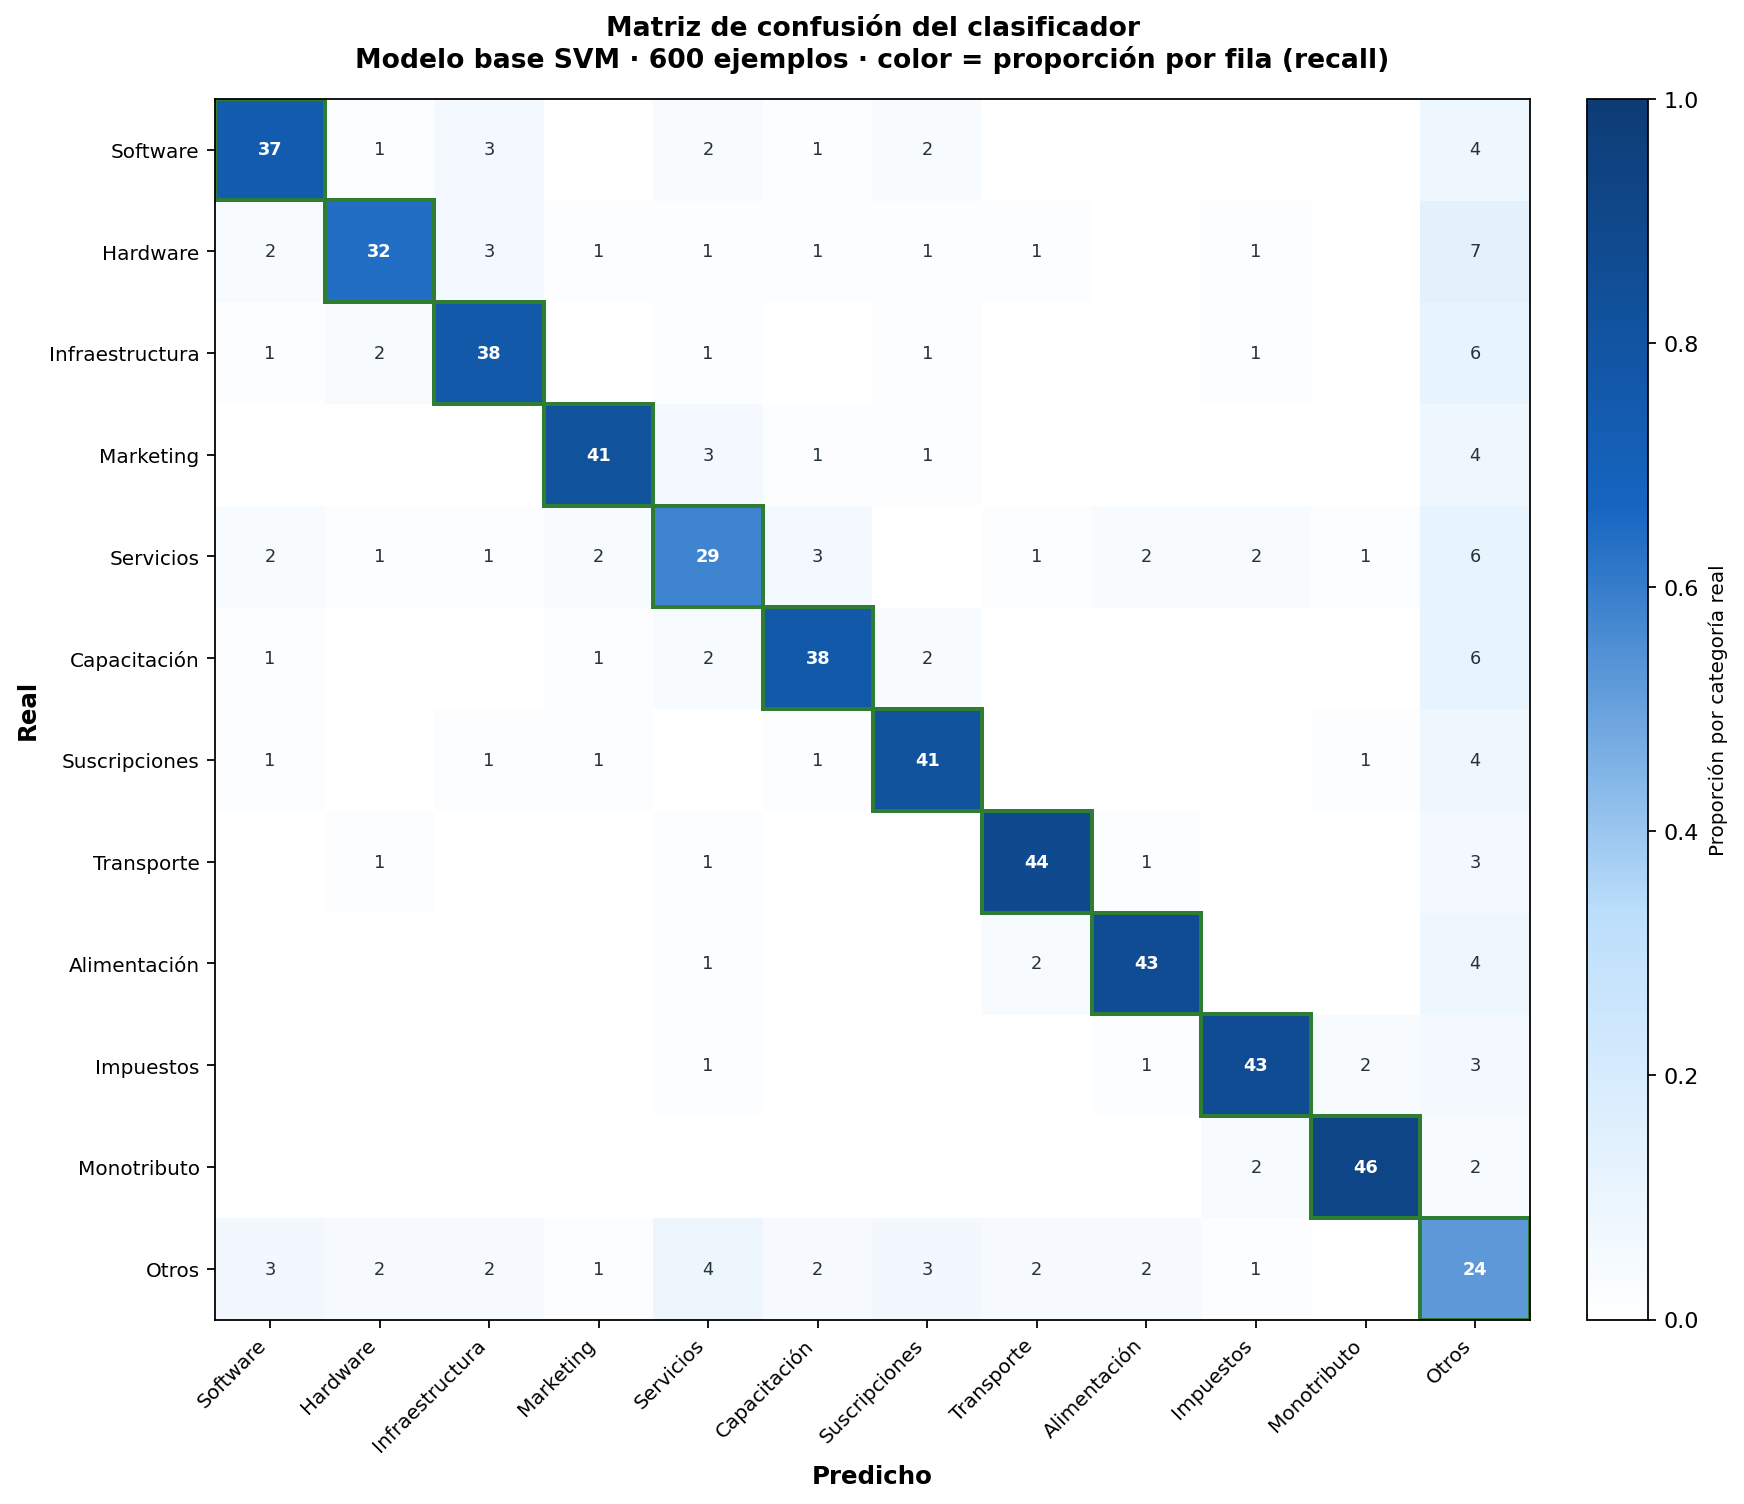
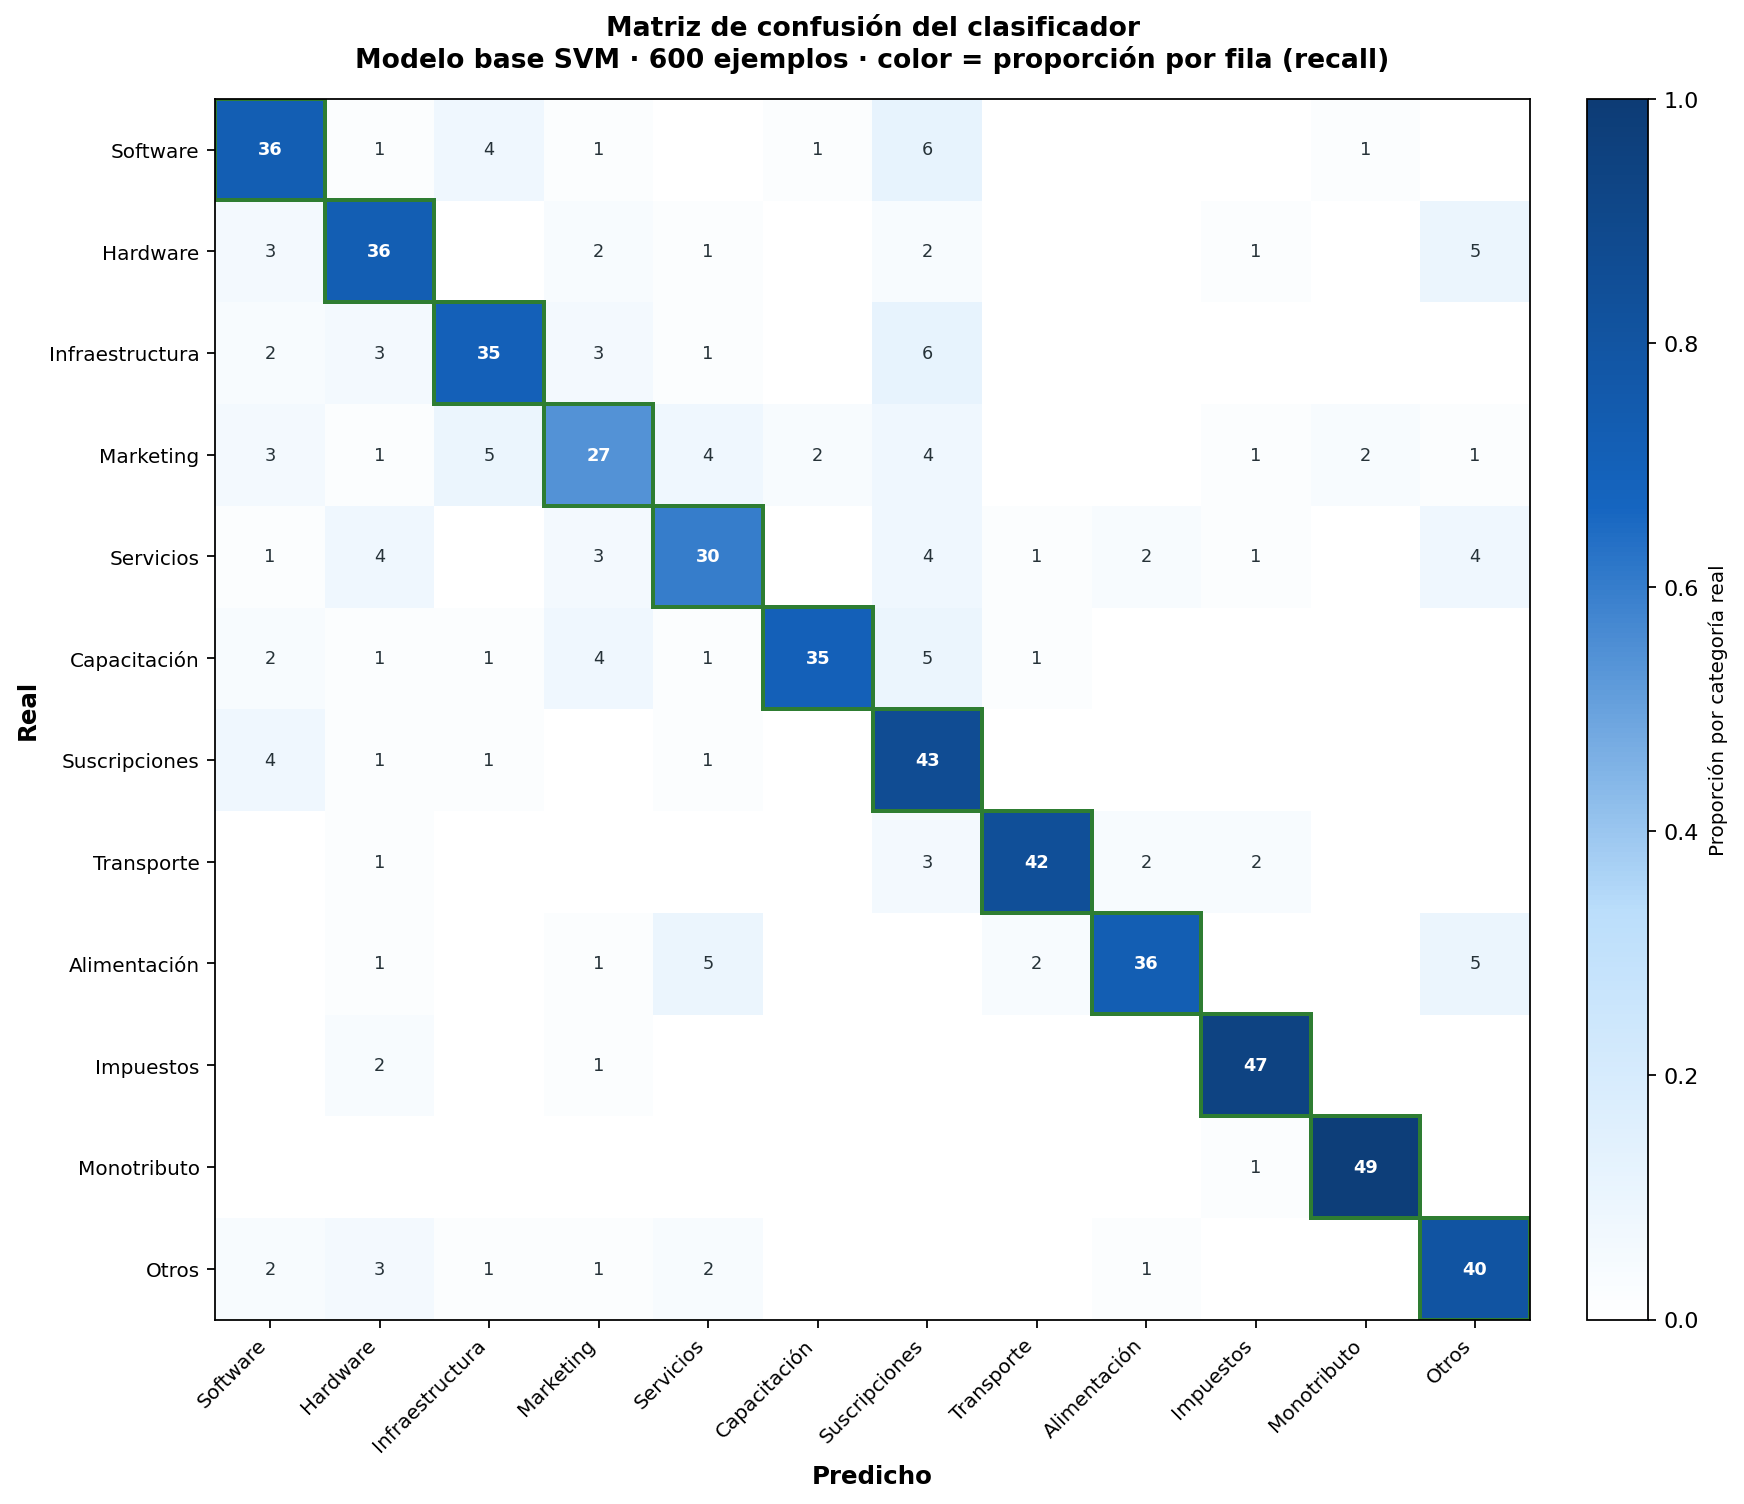
fix(S3.2+S3.4): corrige métricas por categoría con los datos REALES de la corrida
Los gráficos y el análisis del informe usaban cifras inventadas que no coincidían
con la salida real de evaluar_modelo.py. Corregido contra metricas_clasificador.txt:

- Peor categoría real: Marketing (F1 0.581), no "Otros"
- "Otros" real: F1 0.762 (buena, el modelo no la usa de vertedero)
- Mejor: Monotributo (F1 0.961), Impuestos (0.913), Transporte (0.875)
- Matriz de confusión: validada (600 ejemplos, accuracy 0.7600, recall por
  categoría coincide al milésimo con el txt)
- Hallazgo real documentado: confusión sistemática hacia Suscripciones desde
  categorías tecnológicas (vocabulario compartido por el modelo SaaS)

Changed region(s): [[0.6193, 0.5938, 0.7122, 0.6875], [0.805, 0.8125, 0.8979, 0.875], [0.3096, 0.25, 0.3716, 0.3438]]

diff --git a/docs/gen_graficos_metricas.py b/docs/gen_graficos_metricas.py
@@ -20,39 +20,41 @@ ACCURACY = 0.76
 N_EJEMPLOS = 600
 
 # (categoria, precision, recall, f1)  — ordenadas peor→mejor f1
+# Datos REALES de la corrida de evaluar_modelo.py (ver metricas_clasificador.txt).
 METRICAS = [
-    ("Otros",           0.500, 0.480, 0.489),
-    ("Servicios",       0.604, 0.580, 0.592),
-    ("Hardware",        0.681, 0.640, 0.660),
-    ("Infraestructura", 0.760, 0.760, 0.760),
-    ("Capacitación",    0.745, 0.760, 0.752),
-    ("Software",        0.787, 0.740, 0.763),
-    ("Marketing",       0.820, 0.820, 0.820),
-    ("Suscripciones",   0.787, 0.820, 0.803),
-    ("Transporte",      0.880, 0.880, 0.880),
-    ("Alimentación",    0.843, 0.860, 0.851),
-    ("Impuestos",       0.860, 0.860, 0.860),
-    ("Monotributo",     0.860, 0.920, 0.889),
+    ("Marketing",       0.628, 0.540, 0.581),
+    ("Servicios",       0.667, 0.600, 0.632),
+    ("Hardware",        0.667, 0.720, 0.692),
+    ("Software",        0.679, 0.720, 0.699),
+    ("Suscripciones",   0.589, 0.860, 0.699),
+    ("Infraestructura", 0.745, 0.700, 0.722),
+    ("Otros",           0.727, 0.800, 0.762),
+    ("Alimentación",    0.878, 0.720, 0.791),
+    ("Capacitación",    0.921, 0.700, 0.795),
+    ("Transporte",      0.913, 0.840, 0.875),
+    ("Impuestos",       0.887, 0.940, 0.913),
+    ("Monotributo",     0.942, 0.980, 0.961),
 ]
 
 LABELS = ["Software", "Hardware", "Infraestructura", "Marketing", "Servicios",
           "Capacitación", "Suscripciones", "Transporte", "Alimentación",
           "Impuestos", "Monotributo", "Otros"]
 
-# Matriz de confusión real (filas=real, columnas=predicho), mismo orden que LABELS
+# Matriz de confusión real (filas=real, columnas=predicho), mismo orden que LABELS.
+# Copiada exactamente de metricas_clasificador.txt.
 MATRIZ = [
-    [37, 1, 3, 0, 2, 1, 2, 0, 0, 0, 0, 4],
-    [2, 32, 3, 1, 1, 1, 1, 1, 0, 1, 0, 7],
-    [1, 2, 38, 0, 1, 0, 1, 0, 0, 1, 0, 6],
-    [0, 0, 0, 41, 3, 1, 1, 0, 0, 0, 0, 4],
-    [2, 1, 1, 2, 29, 3, 0, 1, 2, 2, 1, 6],
-    [1, 0, 0, 1, 2, 38, 2, 0, 0, 0, 0, 6],
-    [1, 0, 1, 1, 0, 1, 41, 0, 0, 0, 1, 4],
-    [0, 1, 0, 0, 1, 0, 0, 44, 1, 0, 0, 3],
-    [0, 0, 0, 0, 1, 0, 0, 2, 43, 0, 0, 4],
-    [0, 0, 0, 0, 1, 0, 0, 0, 1, 43, 2, 3],
-    [0, 0, 0, 0, 0, 0, 0, 0, 0, 2, 46, 2],
-    [3, 2, 2, 1, 4, 2, 3, 2, 2, 1, 0, 24],
+    [36, 1, 4, 1, 0, 1, 6, 0, 0, 0, 1, 0],
+    [3, 36, 0, 2, 1, 0, 2, 0, 0, 1, 0, 5],
+    [2, 3, 35, 3, 1, 0, 6, 0, 0, 0, 0, 0],
+    [3, 1, 5, 27, 4, 2, 4, 0, 0, 1, 2, 1],
+    [1, 4, 0, 3, 30, 0, 4, 1, 2, 1, 0, 4],
+    [2, 1, 1, 4, 1, 35, 5, 1, 0, 0, 0, 0],
+    [4, 1, 1, 0, 1, 0, 43, 0, 0, 0, 0, 0],
+    [0, 1, 0, 0, 0, 0, 3, 42, 2, 2, 0, 0],
+    [0, 1, 0, 1, 5, 0, 0, 2, 36, 0, 0, 5],
+    [0, 2, 0, 1, 0, 0, 0, 0, 0, 47, 0, 0],
+    [0, 0, 0, 0, 0, 0, 0, 0, 0, 1, 49, 0],
+    [2, 3, 1, 1, 2, 0, 0, 0, 1, 0, 0, 40],
 ]
 
 

diff --git a/docs/informe_capitulos.md b/docs/informe_capitulos.md
@@ -189,15 +189,21 @@ clasificación de texto corto en español con vocabulario heterogéneo y que el
 umbral de confianza deriva los casos dudosos a revisión manual.
 
 El análisis por categoría revela un desempeño dispar pero coherente con la
-naturaleza del problema. Las categorías con vocabulario distintivo obtuvieron los
-mejores resultados: Monotributo (F1 = 0,889), Transporte (F1 = 0,880) e Impuestos
-(F1 = 0,860). En el extremo opuesto, la categoría "Otros" (F1 = 0,489) y
-"Servicios" (F1 = 0,592) presentaron el desempeño más bajo, un comportamiento
-esperable dado que ambas funcionan como categorías semánticamente amplias que se
-solapan con varias otras. La matriz de confusión confirma este diagnóstico: las
-confusiones se concentran en la columna "Otros", lo que indica que el modelo, ante
-la duda, tiende a la categoría genérica antes que a una incorrecta específica
-—precisamente el comportamiento conservador que el diseño busca.
+naturaleza del problema. Las categorías con vocabulario distintivo y acotado
+obtuvieron los mejores resultados: Monotributo (F1 = 0,961), Impuestos
+(F1 = 0,913) y Transporte (F1 = 0,875). En el extremo opuesto, Marketing
+(F1 = 0,581) y Servicios (F1 = 0,632) presentaron el desempeño más bajo, un
+comportamiento esperable dado que son categorías semánticamente amplias cuyo
+vocabulario se solapa con el de otras: un gasto de Marketing puede mencionar
+software o servicios, y "Servicios" abarca honorarios de naturaleza muy diversa.
+La matriz de confusión confirma este diagnóstico. Se observa además una confusión
+sistemática hacia la categoría Suscripciones —varias categorías tecnológicas
+(Software, Infraestructura, Capacitación) derivan parte de sus casos hacia ella—,
+atribuible a que muchos servicios profesionales se contratan hoy bajo modalidad
+de suscripción, lo que vuelve el vocabulario parcialmente compartido. Cabe destacar
+que la categoría "Otros" alcanzó un F1 de 0,762, lo que indica que el modelo
+distingue correctamente los gastos genuinamente inclasificables en lugar de usar
+"Otros" como vertedero de la incertidumbre.
 
 Las métricas detalladas, la matriz de confusión completa y los gráficos
 correspondientes se incluyen como anexos de este informe y son reproducibles